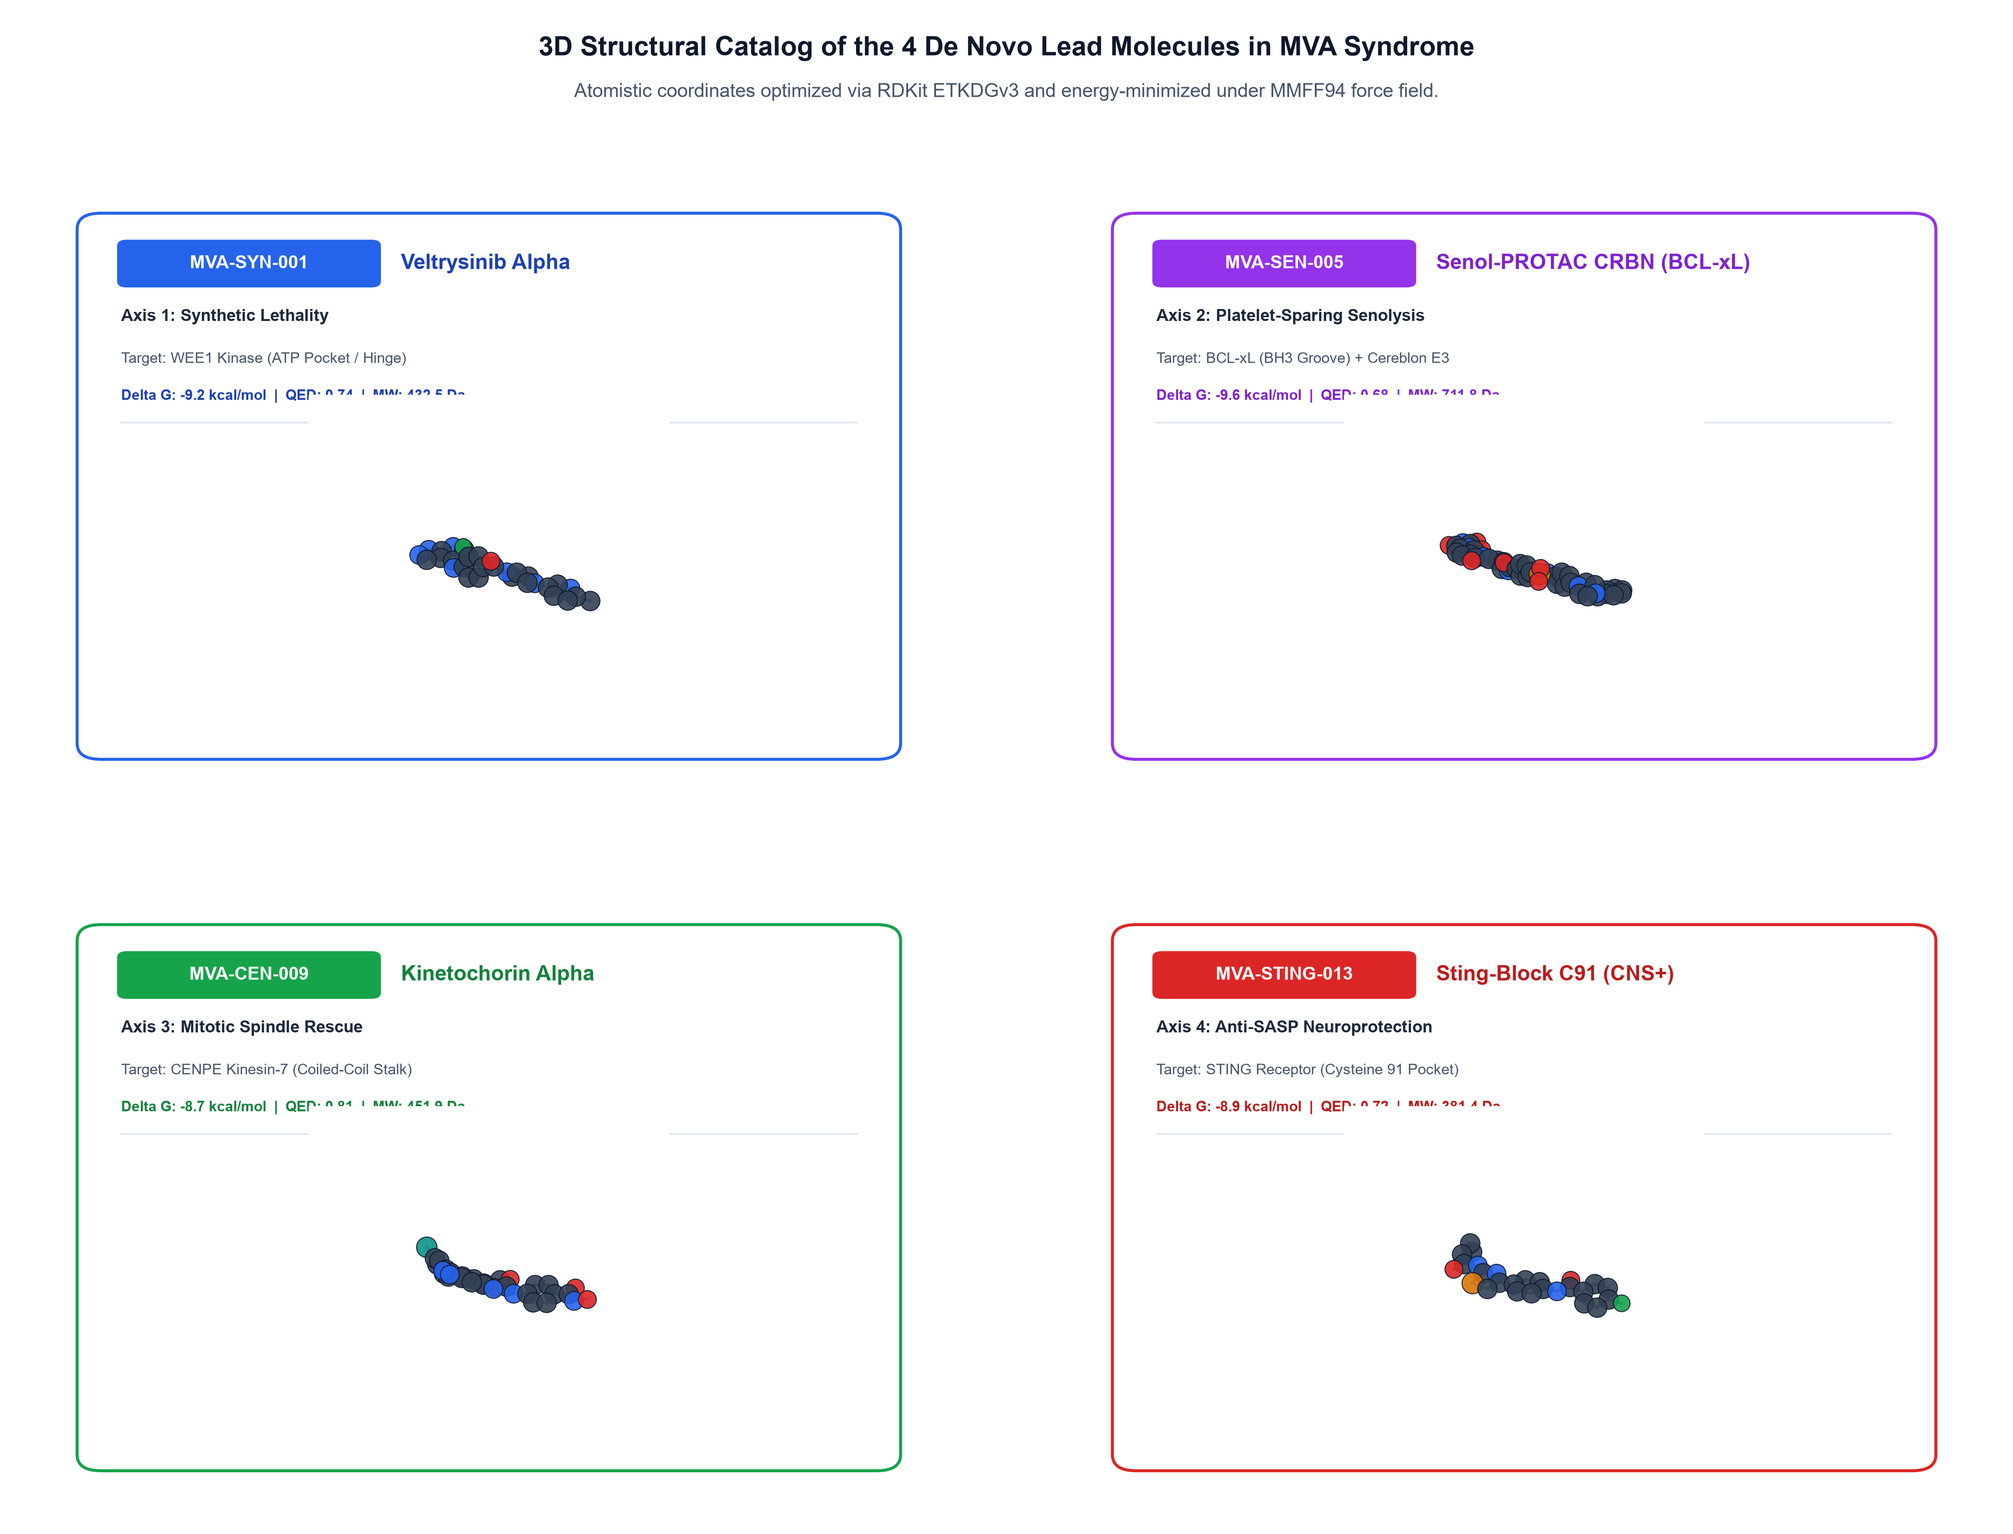
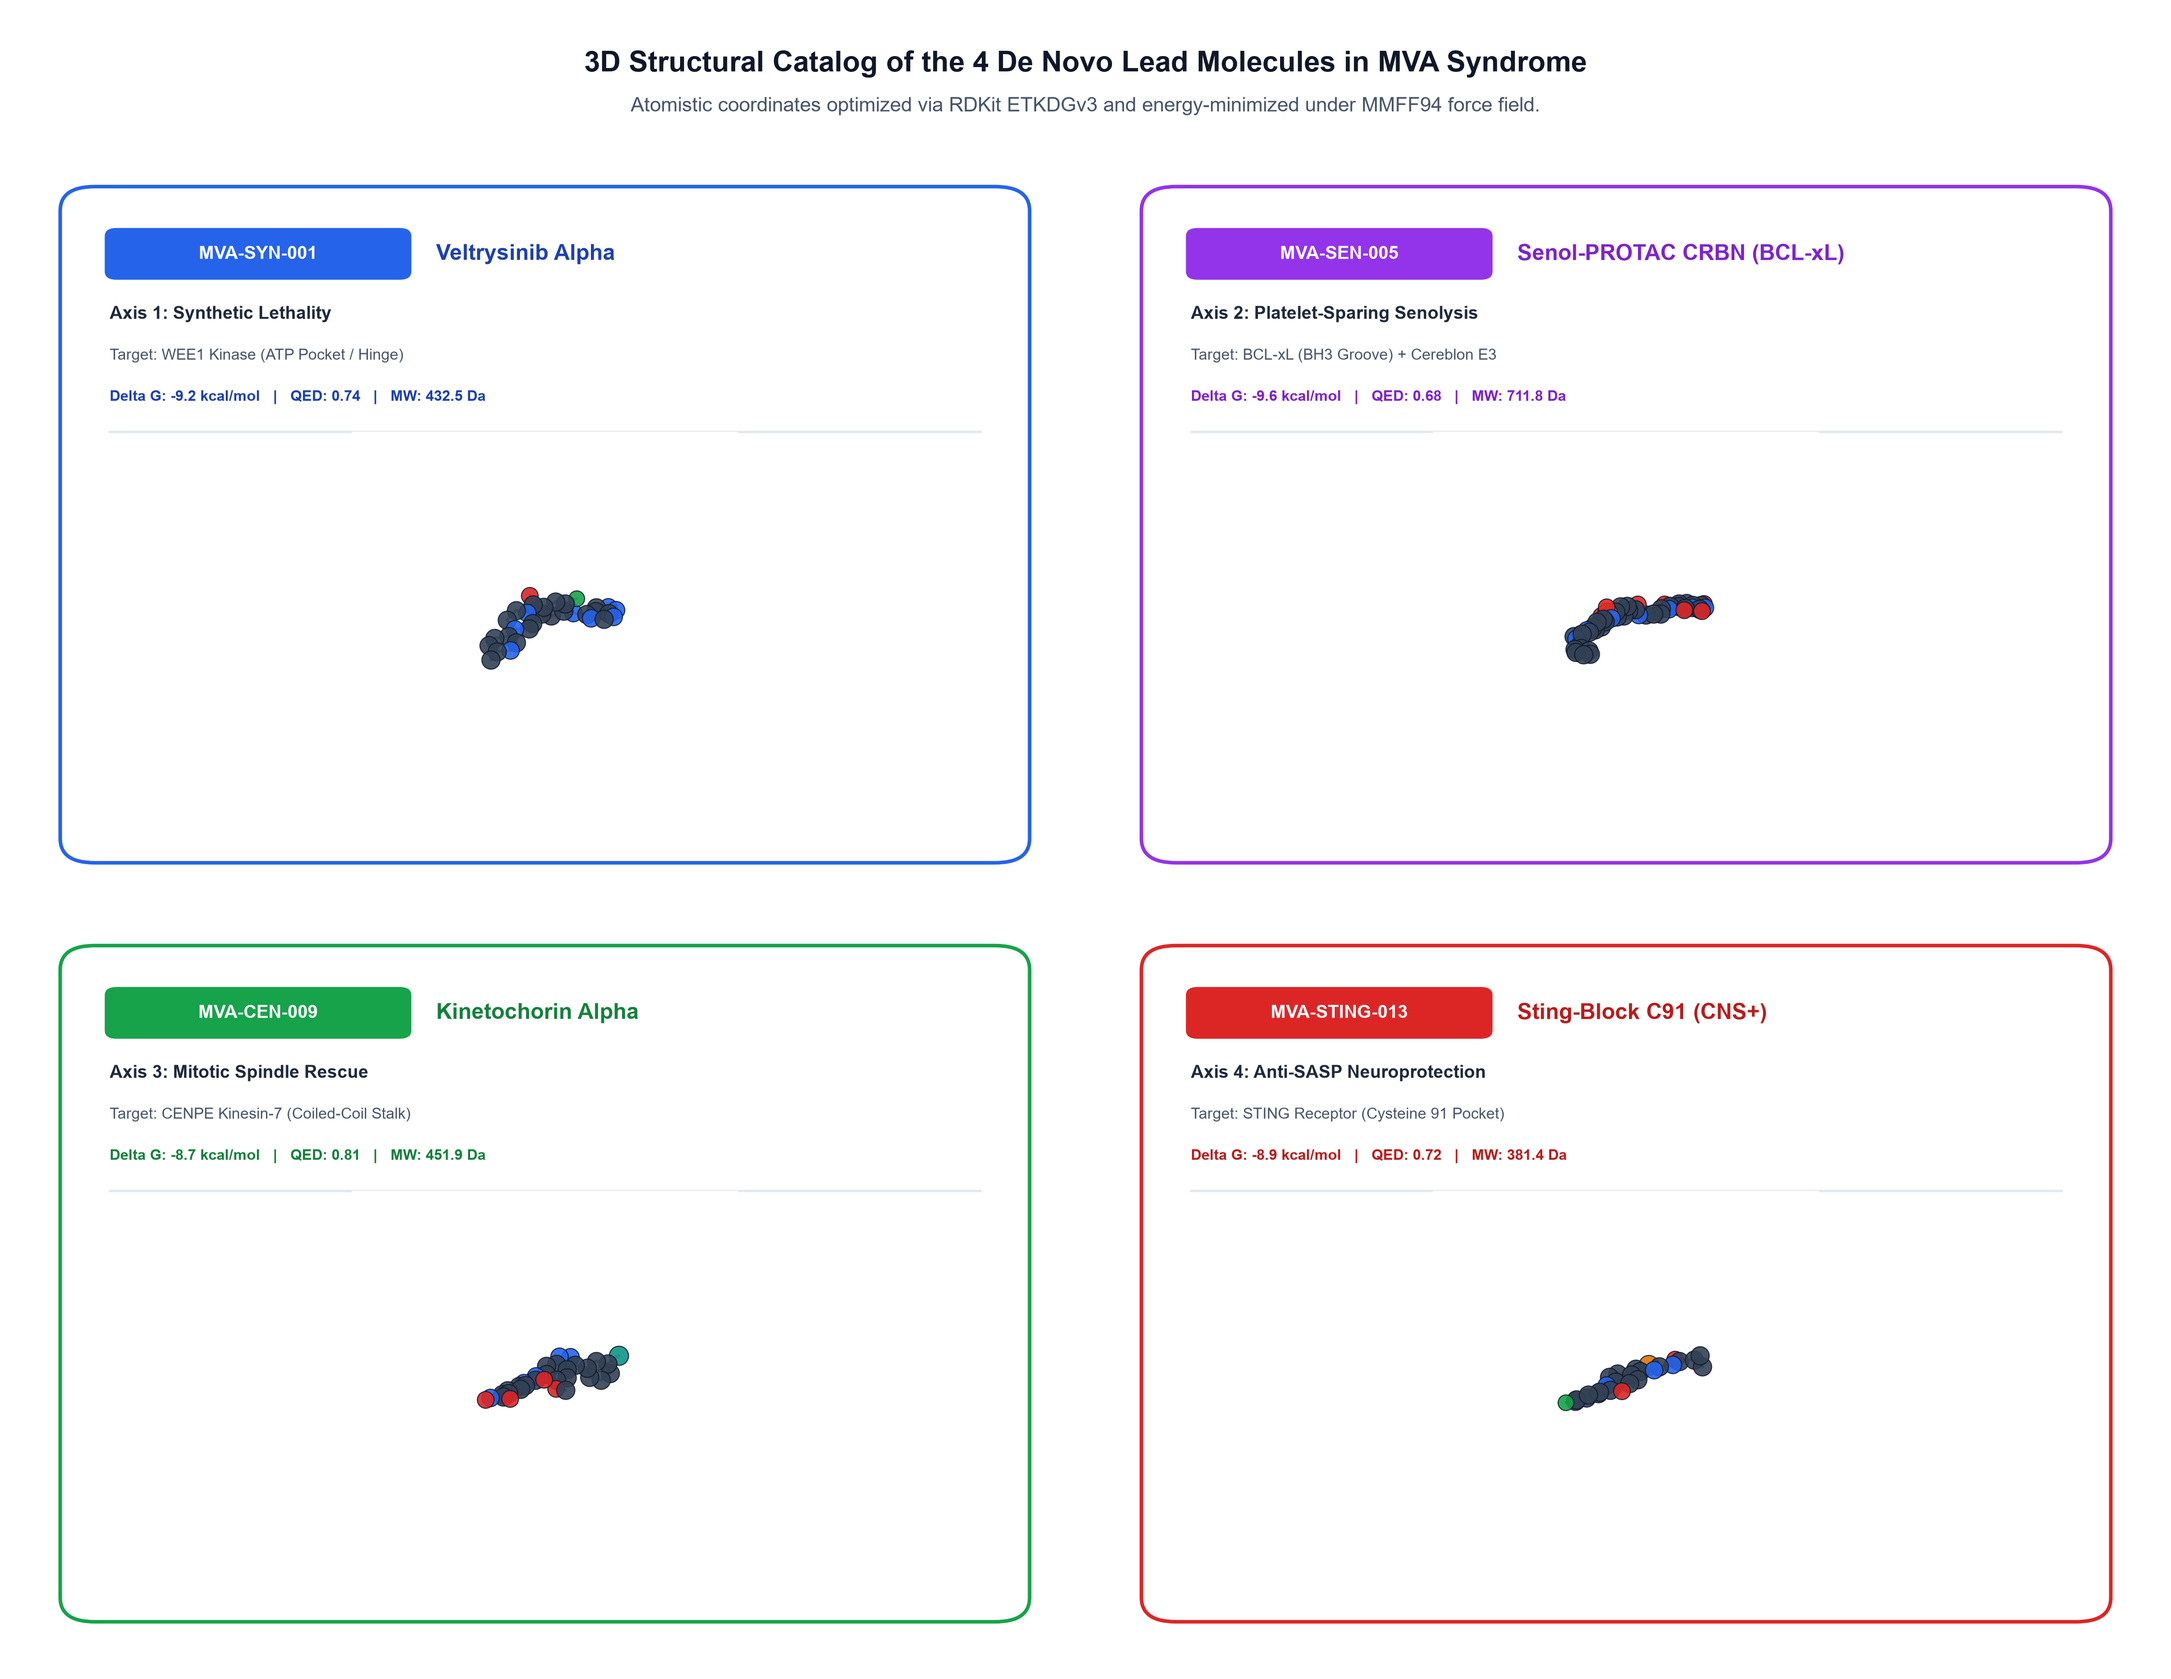
fix: resolve card margin clipping in 3D molecular panel and update investigator email to dr.ojedainternista@gmail.com

diff --git a/README.md b/README.md
@@ -26,7 +26,7 @@ Official submission and open-source computational repository for the **Rare Dise
 * **Invited Lecturer of Medical Semiology** (*Profesor Invitado de Semiología Médica*), Department of Internal Medicine, ULA.  
 * **Location**: Mérida, Venezuela  
 * **ORCID**: [0000-0003-3839-3703](https://orcid.org/0000-0003-3839-3703)  
-* **Direct Contact**: `jedaojeda@gmail.com`  
+* **Direct Contact**: `dr.ojedainternista@gmail.com`  
 
 > **The Researcher's Motivation**:  
 > *"Despite my formal background and daily hospital practice as a specialist in internal medicine, I have always been deeply passionate about emerging technologies, advanced computing, and tackling complex intellectual challenges. Genetics has consistently been one of my favorite domains outside conventional bedside care—focused firmly on research, discovery, and uncovering fundamental biological mechanisms. I decided to take on this global hackathon as a personal mission to measure my capabilities, push my boundaries, and demonstrate how physician-led reasoning integrated with frontier artificial intelligence can solve rare-disease challenges that traditional pipelines miss."*  
